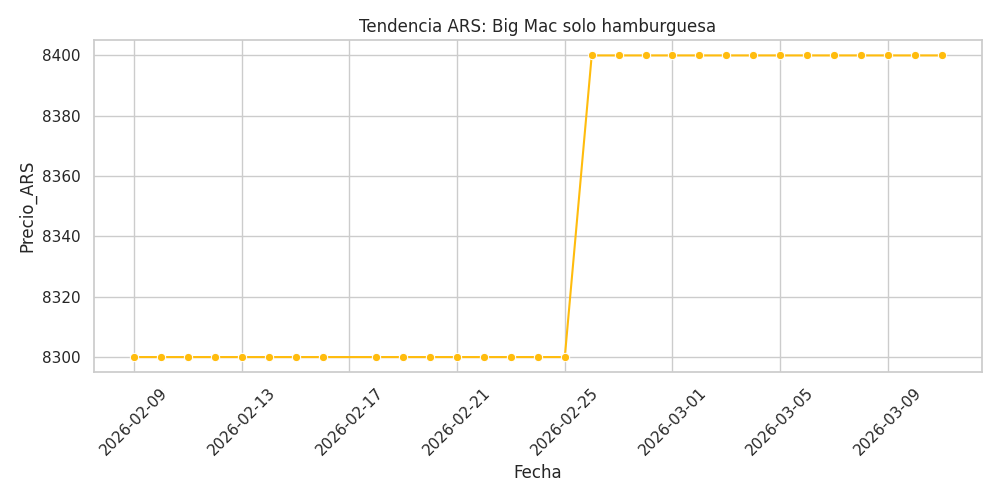
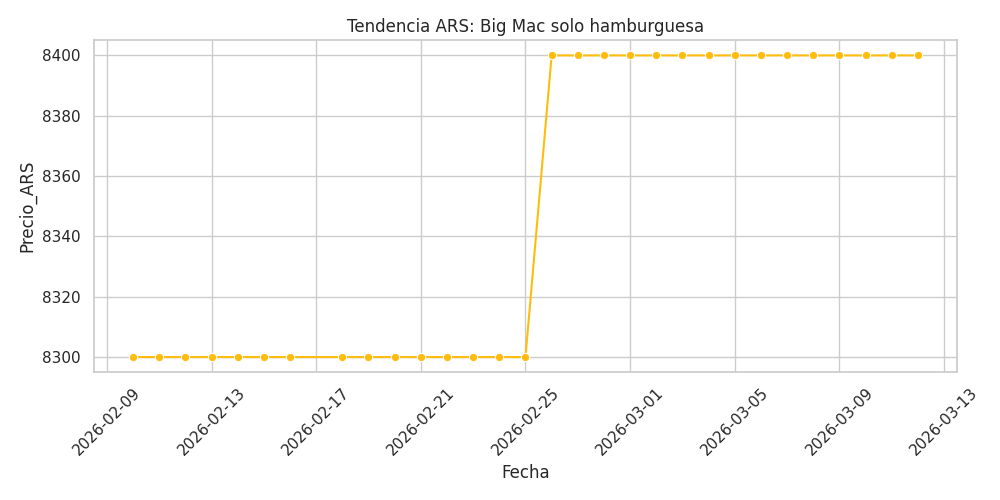
Update prices and Dashboard (daily scan)

diff --git a/docs/index.html b/docs/index.html
@@ -19,20 +19,20 @@
     </head>
     <body>
         <h1>🍔 McDonald's Price Tracker</h1>
-        <p>Monitoreo automatizado de precios en Argentina. <strong>Dólar Oficial (BN): $1,420.00</strong></p>
+        <p>Monitoreo automatizado de precios en Argentina. <strong>Dólar Oficial (BN): $1,415.00</strong></p>
         <div class="grid">
         <div class="card">
             <h3>Big Mac Combo</h3>
             <div class="price">$15,600.00 ARS</div>
-            <div class="sub-price">U$D 10.99</div>
+            <div class="sub-price">U$D 11.02</div>
         </div>
         <div class="card">
             <h3>Big Mac solo hamburguesa</h3>
             <div class="price">$8,400.00 ARS</div>
-            <div class="sub-price">U$D 5.92</div>
+            <div class="sub-price">U$D 5.94</div>
         </div></div>
         <h2>Histórico (Últimos 30 días)</h2>
         <div class="grid"><div class="chart-box"><h4>Big Mac Combo</h4><img src="charts/trend_0.png"></div><div class="chart-box"><h4>Big Mac solo hamburguesa</h4><img src="charts/trend_1.png"></div></div>
-        <footer>Generado el 11/03/2026 13:45 | Sistema Legacy Curiosities</footer>
+        <footer>Generado el 12/03/2026 13:43 | Sistema Legacy Curiosities</footer>
     </body>
     </html>
